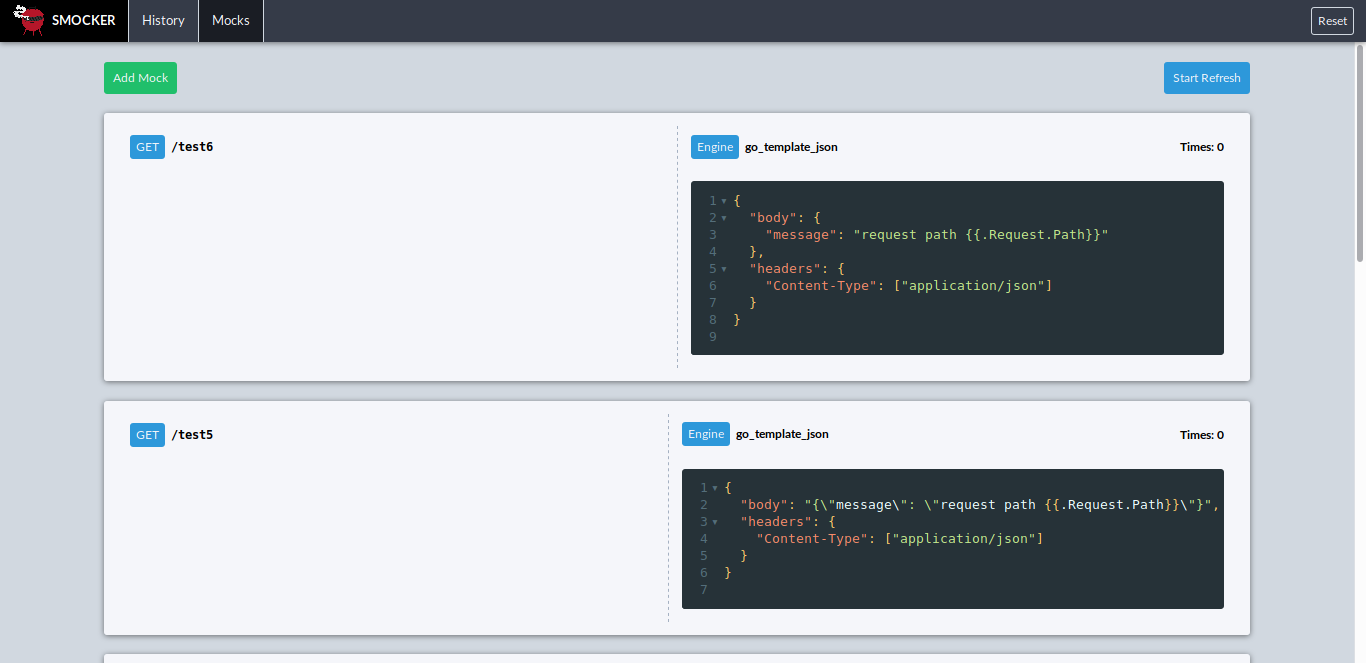
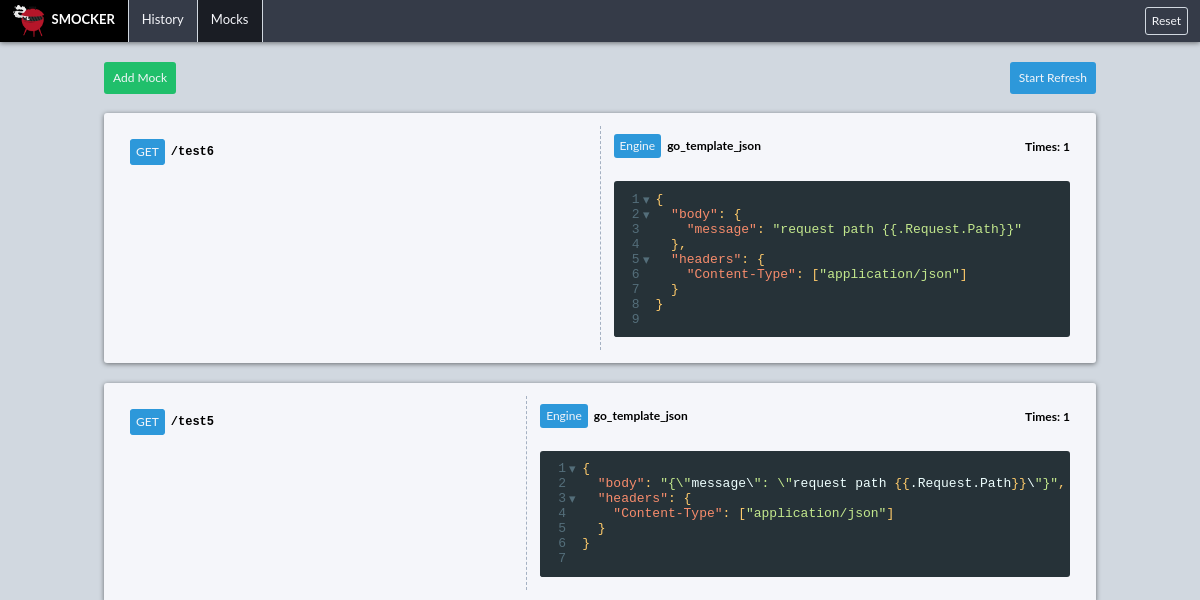
docs: script to regenerate screenshots

Changed region(s): [[0.0, 0.0, 1.0, 1.0]]

diff --git a/docs/refresh-screenshots.js b/docs/refresh-screenshots.js
@@ -1,0 +1,23 @@
+const puppeteer = require("puppeteer");
+const path = require("path");
+
+(async () => {
+  const browser = await puppeteer.launch();
+  const page = await browser.newPage();
+  page.setViewport({
+    width: 1200,
+    height: 600
+  });
+
+  await page.goto("http://localhost:8081/pages/history");
+  await page.waitFor(3000);
+  await page.screenshot({
+    path: path.join(__dirname, "screenshot-history.png")
+  });
+
+  await page.goto("http://localhost:8081/pages/mocks");
+  await page.waitFor(3000);
+  await page.screenshot({ path: path.join(__dirname, "screenshot-mocks.png") });
+
+  await browser.close();
+})();

diff --git a/README.md b/README.md
@@ -61,14 +61,9 @@ curl localhost:8081/version
 
 smocker exposes a configuration user interface. You can access it in your web browser on http://localhost:8081/.
 
-<details>
-  <summary>Screenshots</summary>
-
 ![History](docs/screenshot-history.png)
 
 ![Mocks](docs/screenshot-mocks.png)
-
-</details>
 
 ## Usage
 
@@ -146,7 +141,8 @@ The backend is written in Go. You can use the following commands to manage the d
 - `make lint`: run static analysis on the code
 - `make format`: automatically format the backend code
 - `make test`: execute unit tests
-- `make test-integration`: execute integration tests (require the backend to be started)
+- `make test-integration`: execute integration tests (require the backend to be started on the default ports)
+- `make docs`: regenerate documentation assets (require the whole application to be started on the default ports)
 
 ### Frontend
 
